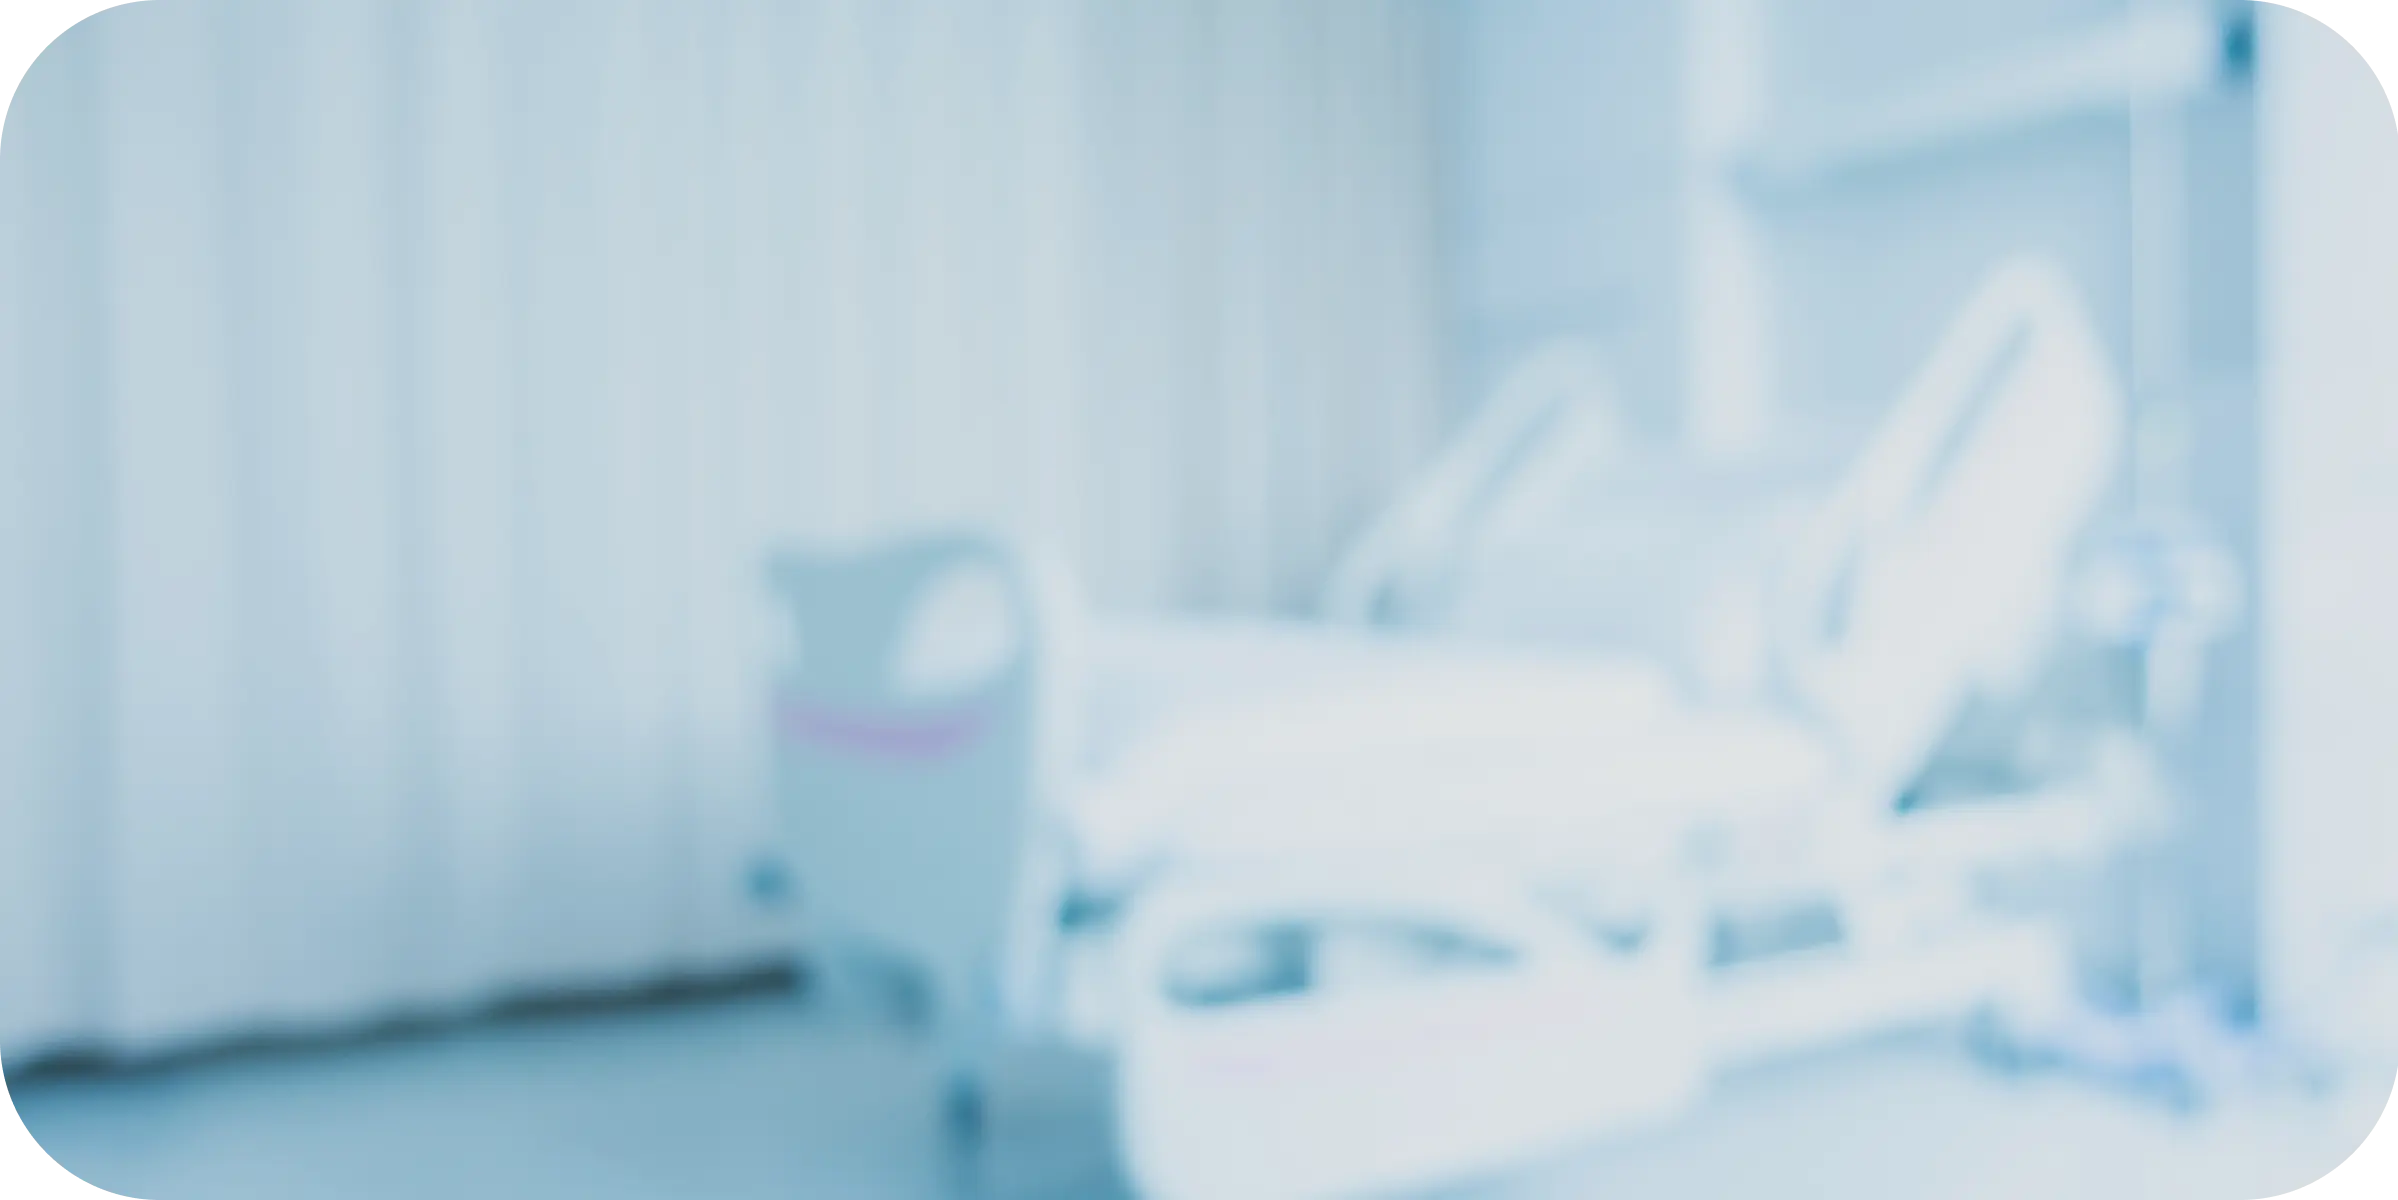
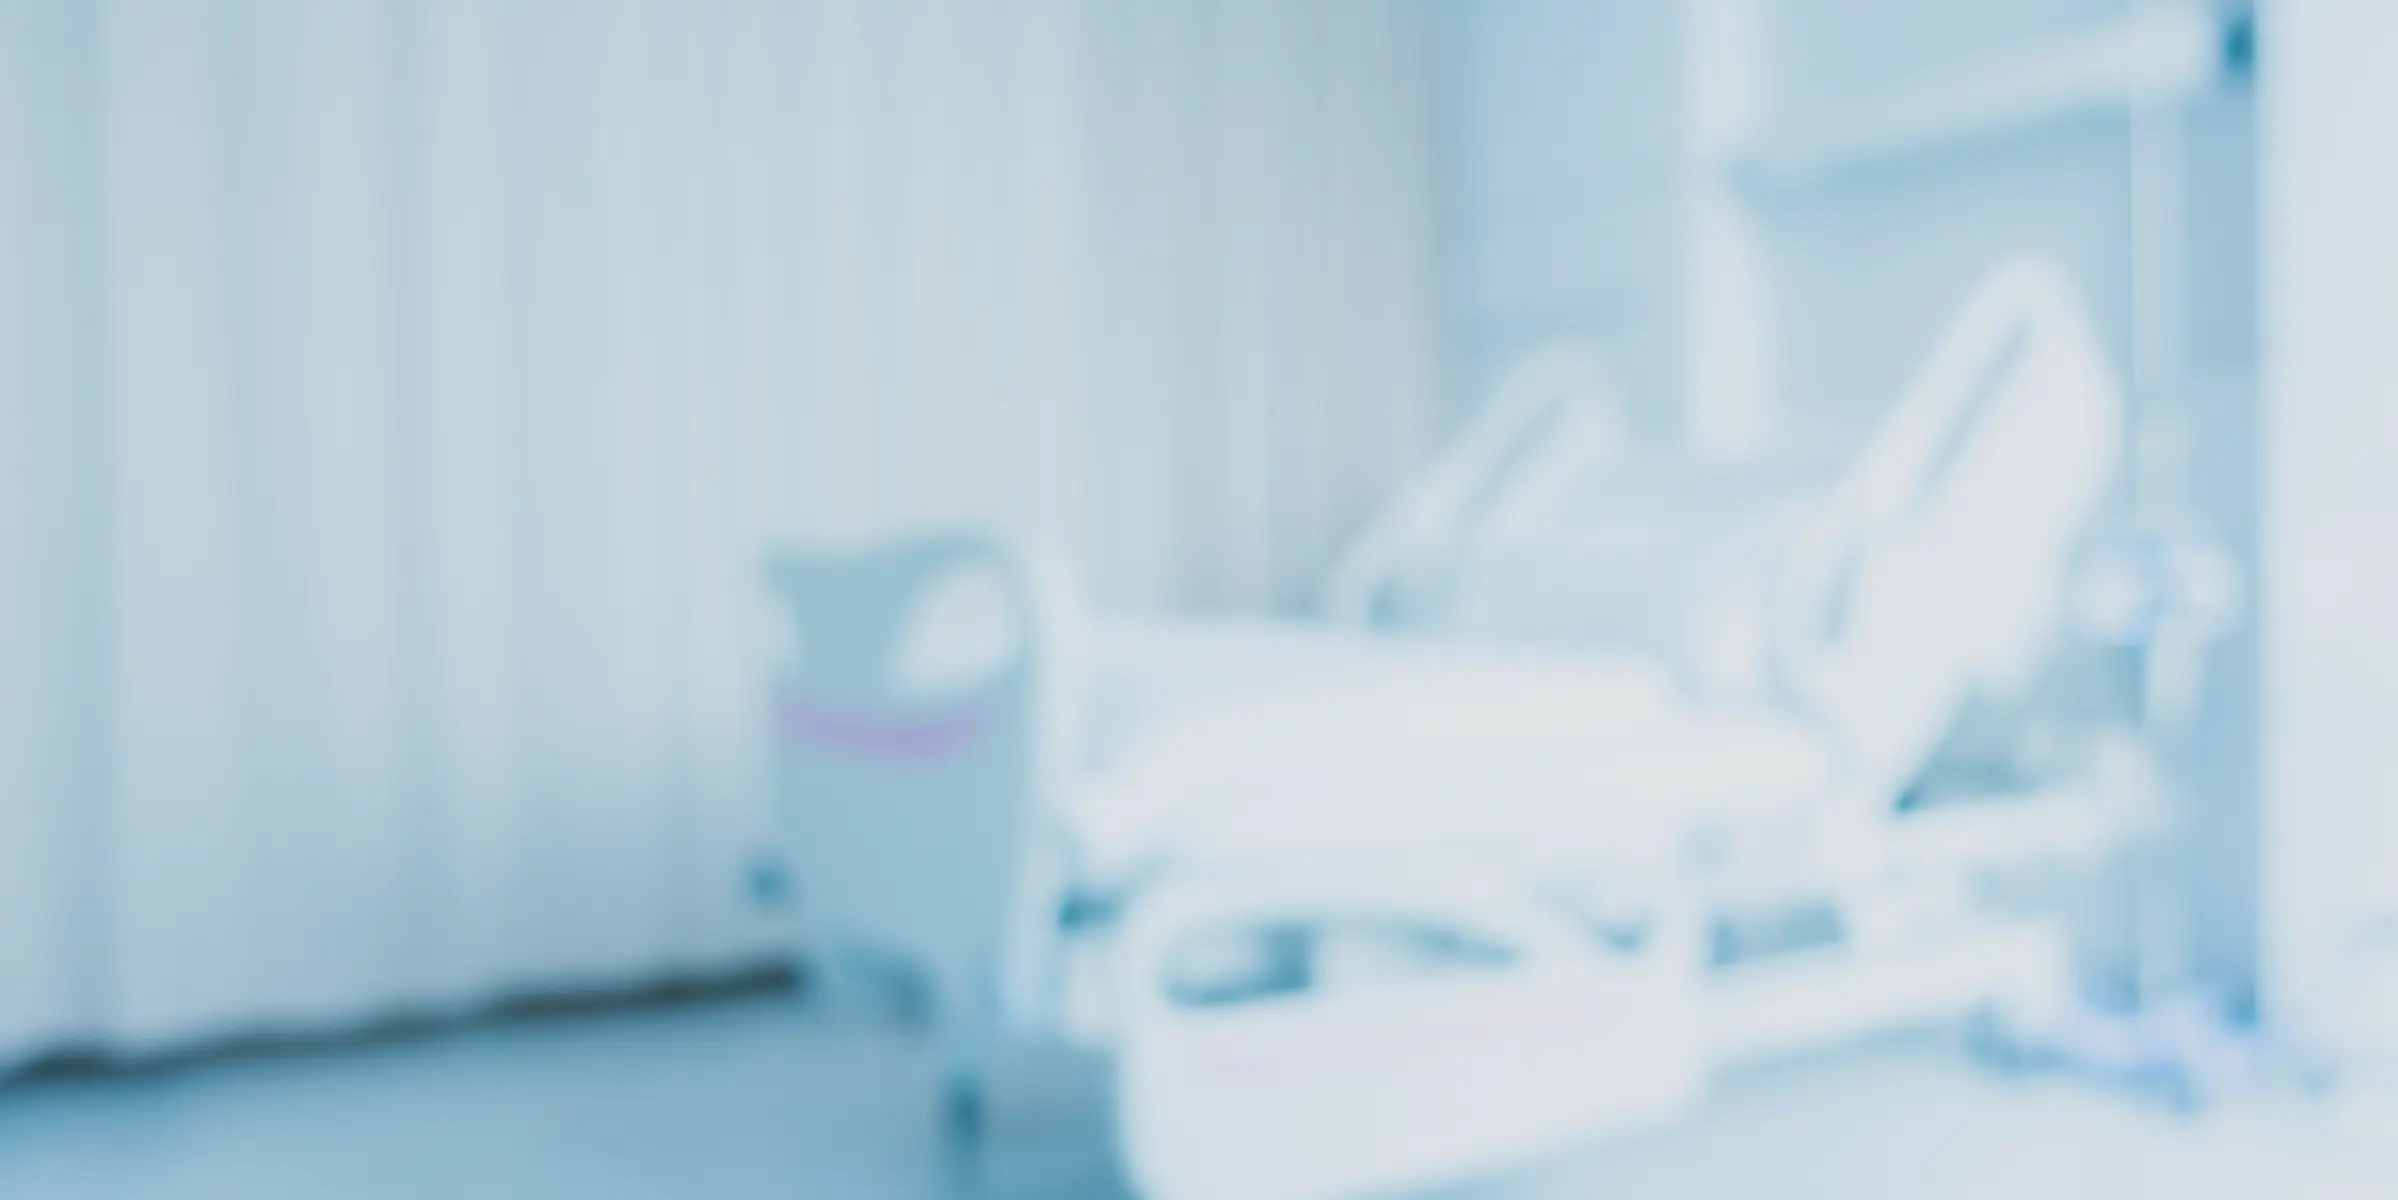
Case studies page is fully responsive

diff --git a/src/app/components/CaseStudies/CaseStudyPageCard.tsx b/src/app/components/CaseStudies/CaseStudyPageCard.tsx
@@ -8,35 +8,61 @@ export default function CaseStudyPageCard(
     deliverables, image, textColor
 }: CaseStudyPageCardType) {
 
-  const {open} = useContactPopupStore();
+  const { open } = useContactPopupStore();
   
   return (
     <article 
-      className=
-        {`flex flex-col gap-[4.8rem] text-${textColor}
-          pl-[9.3rem] pt-[6.4rem] pb-[7rem] bg-cover bg-center h-[60rem] `}
+      className={`flex flex-col gap-[4rem] sm:gap-[4.8rem] text-${textColor}
+        text-center md:text-left
+        px-[2rem] sm:px-[5rem] lg:px-[9.3rem] 
+        pt-[4.9rem] lg:pt-[6.4rem] 
+        pb-[4.9rem] lg:pb-[7rem] 
+        bg-cover bg-center h-[64.4rem] sm:h-[60rem] rounded-[3.2rem] md:rounded-[8rem]`}
       style={{
         color: textColor,
         backgroundImage: `url(${image})`,
-  
       }}
     >
-      <h4 className="text-[3.6rem] font-bold">{projectName}</h4>
-      <div className="flex flex-col gap-[2.4rem]">
-        <p className="text-[1.6rem] leading-[1.8rem]"><strong>Клієнт:&nbsp;</strong>{client}</p>
-        <p className="text-[1.6rem] leading-[1.8rem]"><strong>Задача:&nbsp;</strong>{task}</p>
-        <ul className="text-[1.6rem] leading-[1.8rem] flex flex-col gap-[0.5rem]">
+      <h4 className="text-[1.8rem] sm:text-[2.5rem] lg:text-[3.6rem] font-bold">
+        {projectName}
+      </h4>
+
+      <div className="flex flex-col gap-[1.6rem] sm:gap-[2.4rem]">
+        <p className="text-[1.2rem] sm:text-[1.4rem] lg:text-[1.6rem] leading-[2.1rem] sm:leading-[1.8rem]">
+          <strong>Клієнт:</strong>
+          <br className="block sm:hidden" />
+          &nbsp;{client}
+        </p>
+
+        <p className="text-[1.2rem] sm:text-[1.4rem] lg:text-[1.6rem] leading-[2.1rem] sm:leading-[1.8rem]">
+          <strong>Задача:</strong>
+          <br className="block sm:hidden" />
+          &nbsp;{task}
+        </p>
+
+        <ul className="text-[1.2rem] sm:text-[1.4rem] lg:text-[1.6rem] leading-[2.1rem] sm:leading-[1.8rem] flex flex-col gap-[0.5rem]">
           <p><strong>Що зробили:&nbsp;</strong></p>
-          {deliverables.map((d, i) => {
-            return (
-              <li key={i}>{d}</li>
-            )
-          })}
+          {deliverables.map((d, i) => (
+            <li key={i}>{d}</li>
+          ))}
         </ul>
-        <p className="text-[1.6rem] leading-[1.8rem]"><strong>Технології:&nbsp;</strong>{stack.toString()}</p>
-        <p className="text-[1.6rem] leading-[1.8rem]"><strong>Результат:&nbsp;</strong>{results}</p>
+
+        <p className="text-[1.2rem] sm:text-[1.4rem] lg:text-[1.6rem] leading-[2.1rem] sm:leading-[1.8rem]">
+          <strong>Технології:</strong>
+          <br className="block sm:hidden" />
+          &nbsp;{stack.toString()}
+        </p>
+
+        <p className="text-[1.2rem] sm:text-[1.4rem] lg:text-[1.6rem] leading-[2.1rem] sm:leading-[1.8rem]">
+          <strong>Результат:</strong>
+          <br className="block sm:hidden" />
+          &nbsp;{results}
+        </p>
       </div>
-      <BlackButton text="Хочу так само!" onClick={open}/>
+
+      <div className="mx-auto md:mx-0">
+        <BlackButton text="Хочу так само!" onClick={open} />
+      </div>
     </article>
   )
 }

diff --git a/src/app/case-studies/page.tsx b/src/app/case-studies/page.tsx
@@ -29,15 +29,15 @@ export default function CaseStudiesPage() {
   return (
     <section
       aria-label="Case Studies page"
-      className="px-[8rem] pt-[7rem] pb-[8rem]"
+      className="pt-[4.8rem] lg:pt-[7rem] pb-[5.6rem] lg:pb-[8rem]"
     >
-      <SectionTitle title="Case studies" paddingBottom={50} />
+      <SectionTitle title="Case studies" paddingBottom={0} />
 
-      <div className="flex items-center gap-[2.4rem] mt-[5.6rem]">
+      <div className="flex items-center gap-[2.4rem] mt-[3.2rem] sm:mt-[5rem] lg:mt-[11.6rem] px-[1.8rem] sm:px-[4rem] lg:px-[8rem] ">
         <PrevButton embla={emblaApi} />
 
-        <div className="overflow-hidden flex-1" ref={emblaRef}>
-          <div className="flex items-center gap-[3.2rem]">
+        <div className="overflow-hidden flex-1 touch-pan-y" ref={emblaRef}>
+          <div className="flex items-center gap-[3.2rem] cursor-grab active:cursor-grabbing">
             {caseStudiesPageCards.map((item, i) => (
               <div className="flex-[0_0_100%]" key={i}>
                 <CaseStudyPageCard {...item} />
@@ -45,6 +45,7 @@ export default function CaseStudiesPage() {
             ))}
           </div>
         </div>
+
 
         <NextButton embla={emblaApi} />
       </div>

diff --git a/src/app/components/CaseStudies/CaseStudiesPageButtons.tsx b/src/app/components/CaseStudies/CaseStudiesPageButtons.tsx
@@ -3,7 +3,7 @@ import { Icon } from "@iconify/react";
 export function PrevButton({ embla }: { embla: any }) {
   return (
     <button
-      className="border border-black/50 p-[0.8rem] rounded-full hover:bg-black/10 transition cursor-pointer"
+      className="hidden md:block border border-black/50 p-[0.8rem] rounded-full hover:bg-black/10 transition cursor-pointer"
       onClick={() => embla && embla.scrollPrev()}
     >
       <Icon icon="mdi-light:chevron-left" width={36} height={36} />
@@ -14,7 +14,7 @@ export function PrevButton({ embla }: { embla: any }) {
 export function NextButton({ embla }: { embla: any }) {
   return (
     <button
-      className="border border-black/50 p-[0.8rem] rounded-full hover:bg-black/10 transition cursor-pointer"
+      className="hidden md:block border border-black/50 p-[0.8rem] rounded-full hover:bg-black/10 transition cursor-pointer"
       onClick={() => embla && embla.scrollNext()}
     >
       <Icon icon="mdi-light:chevron-right" width={36} height={36} />
